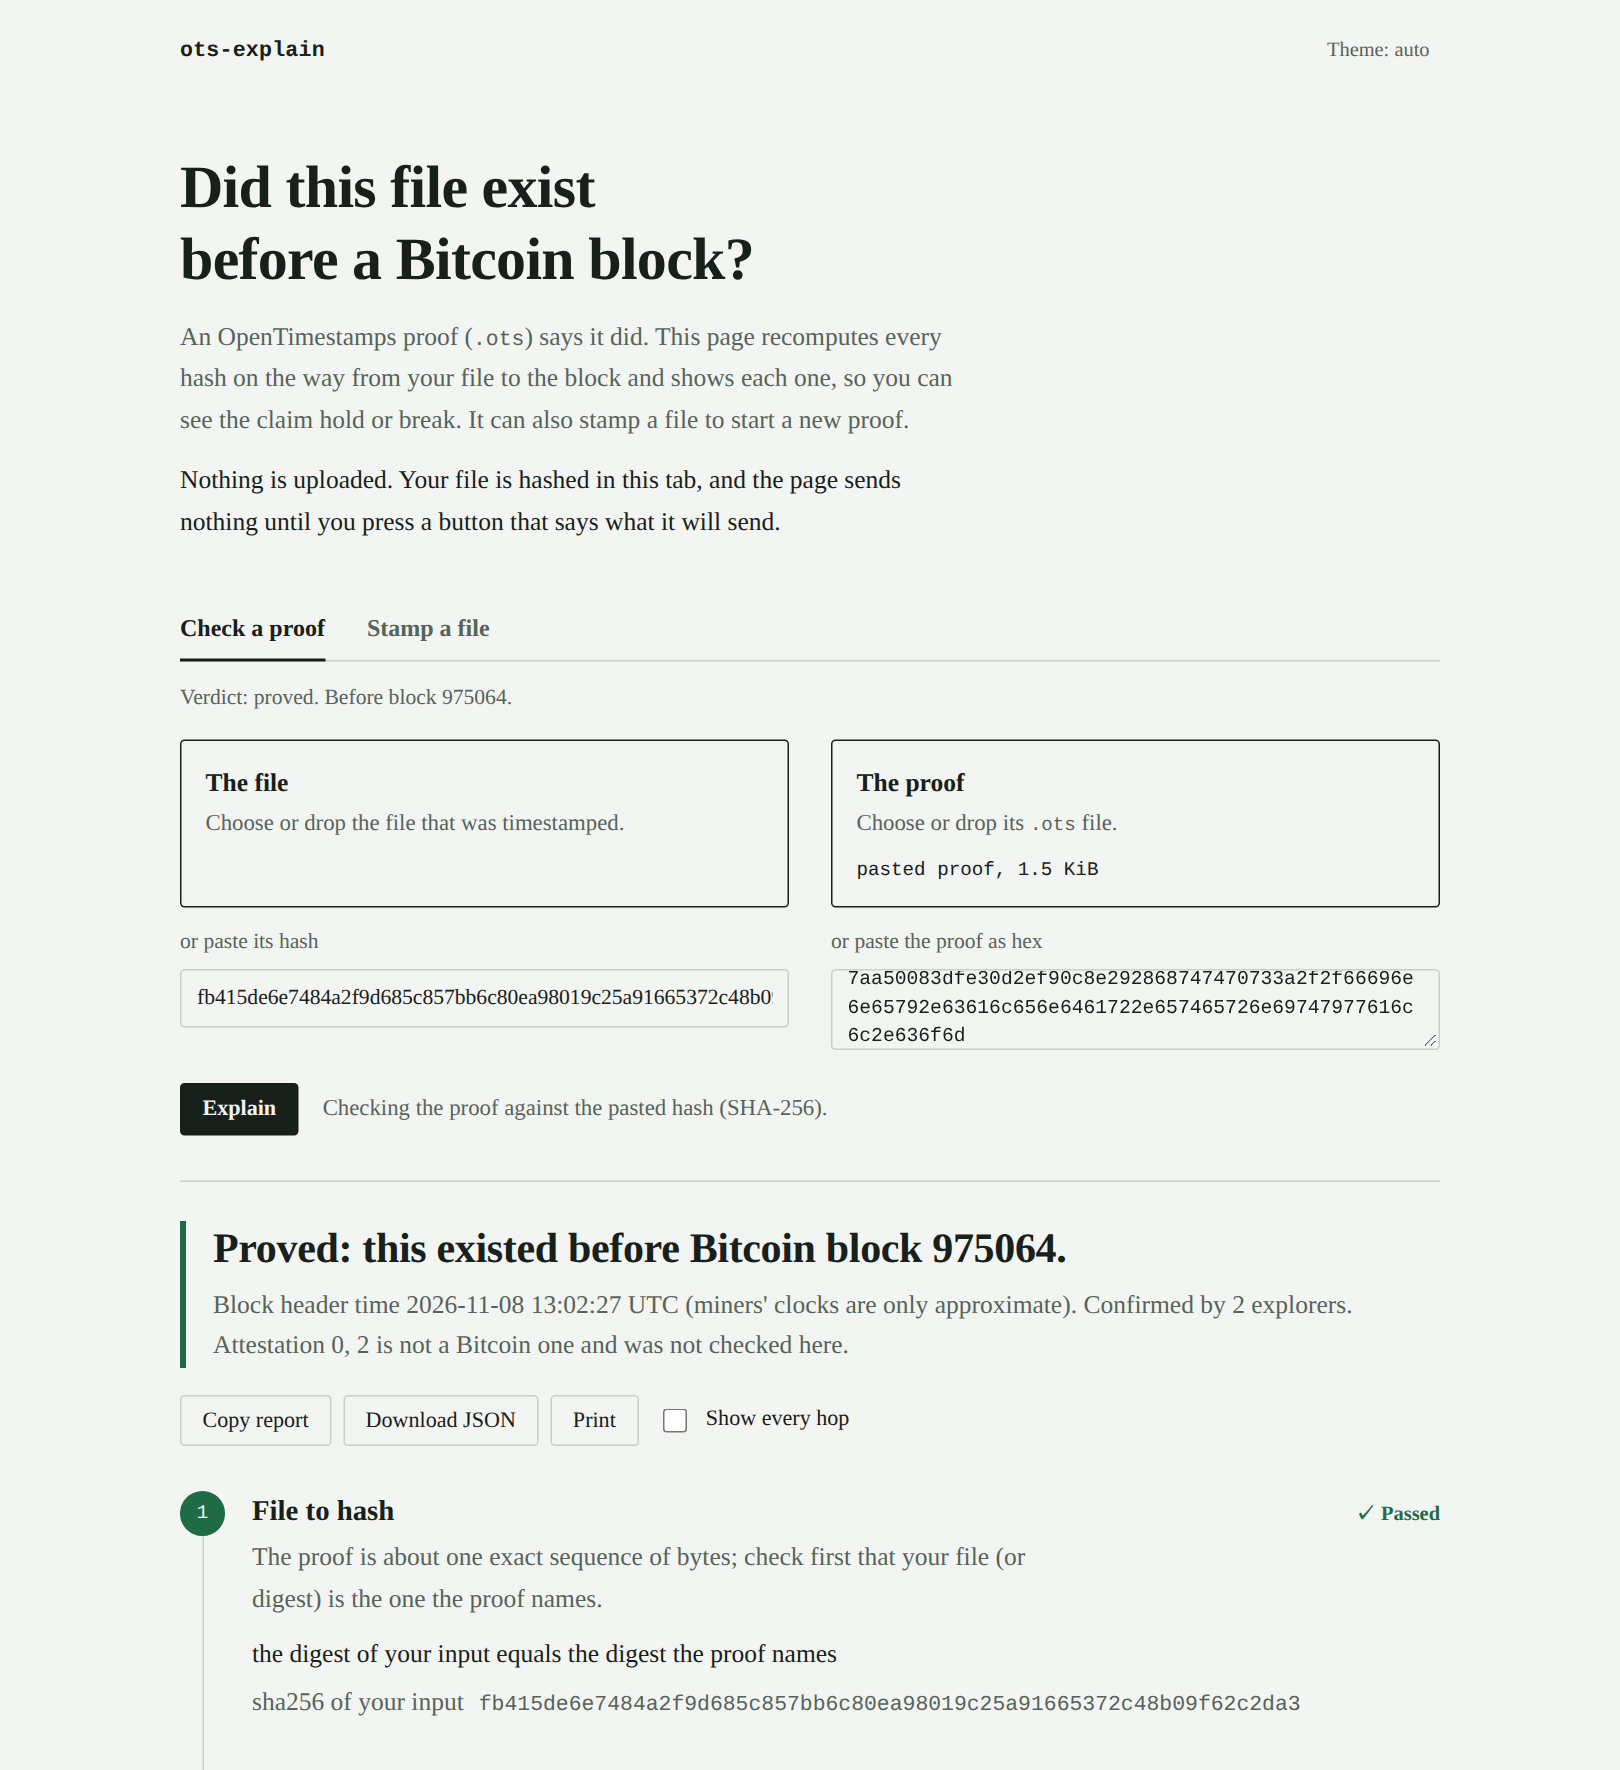
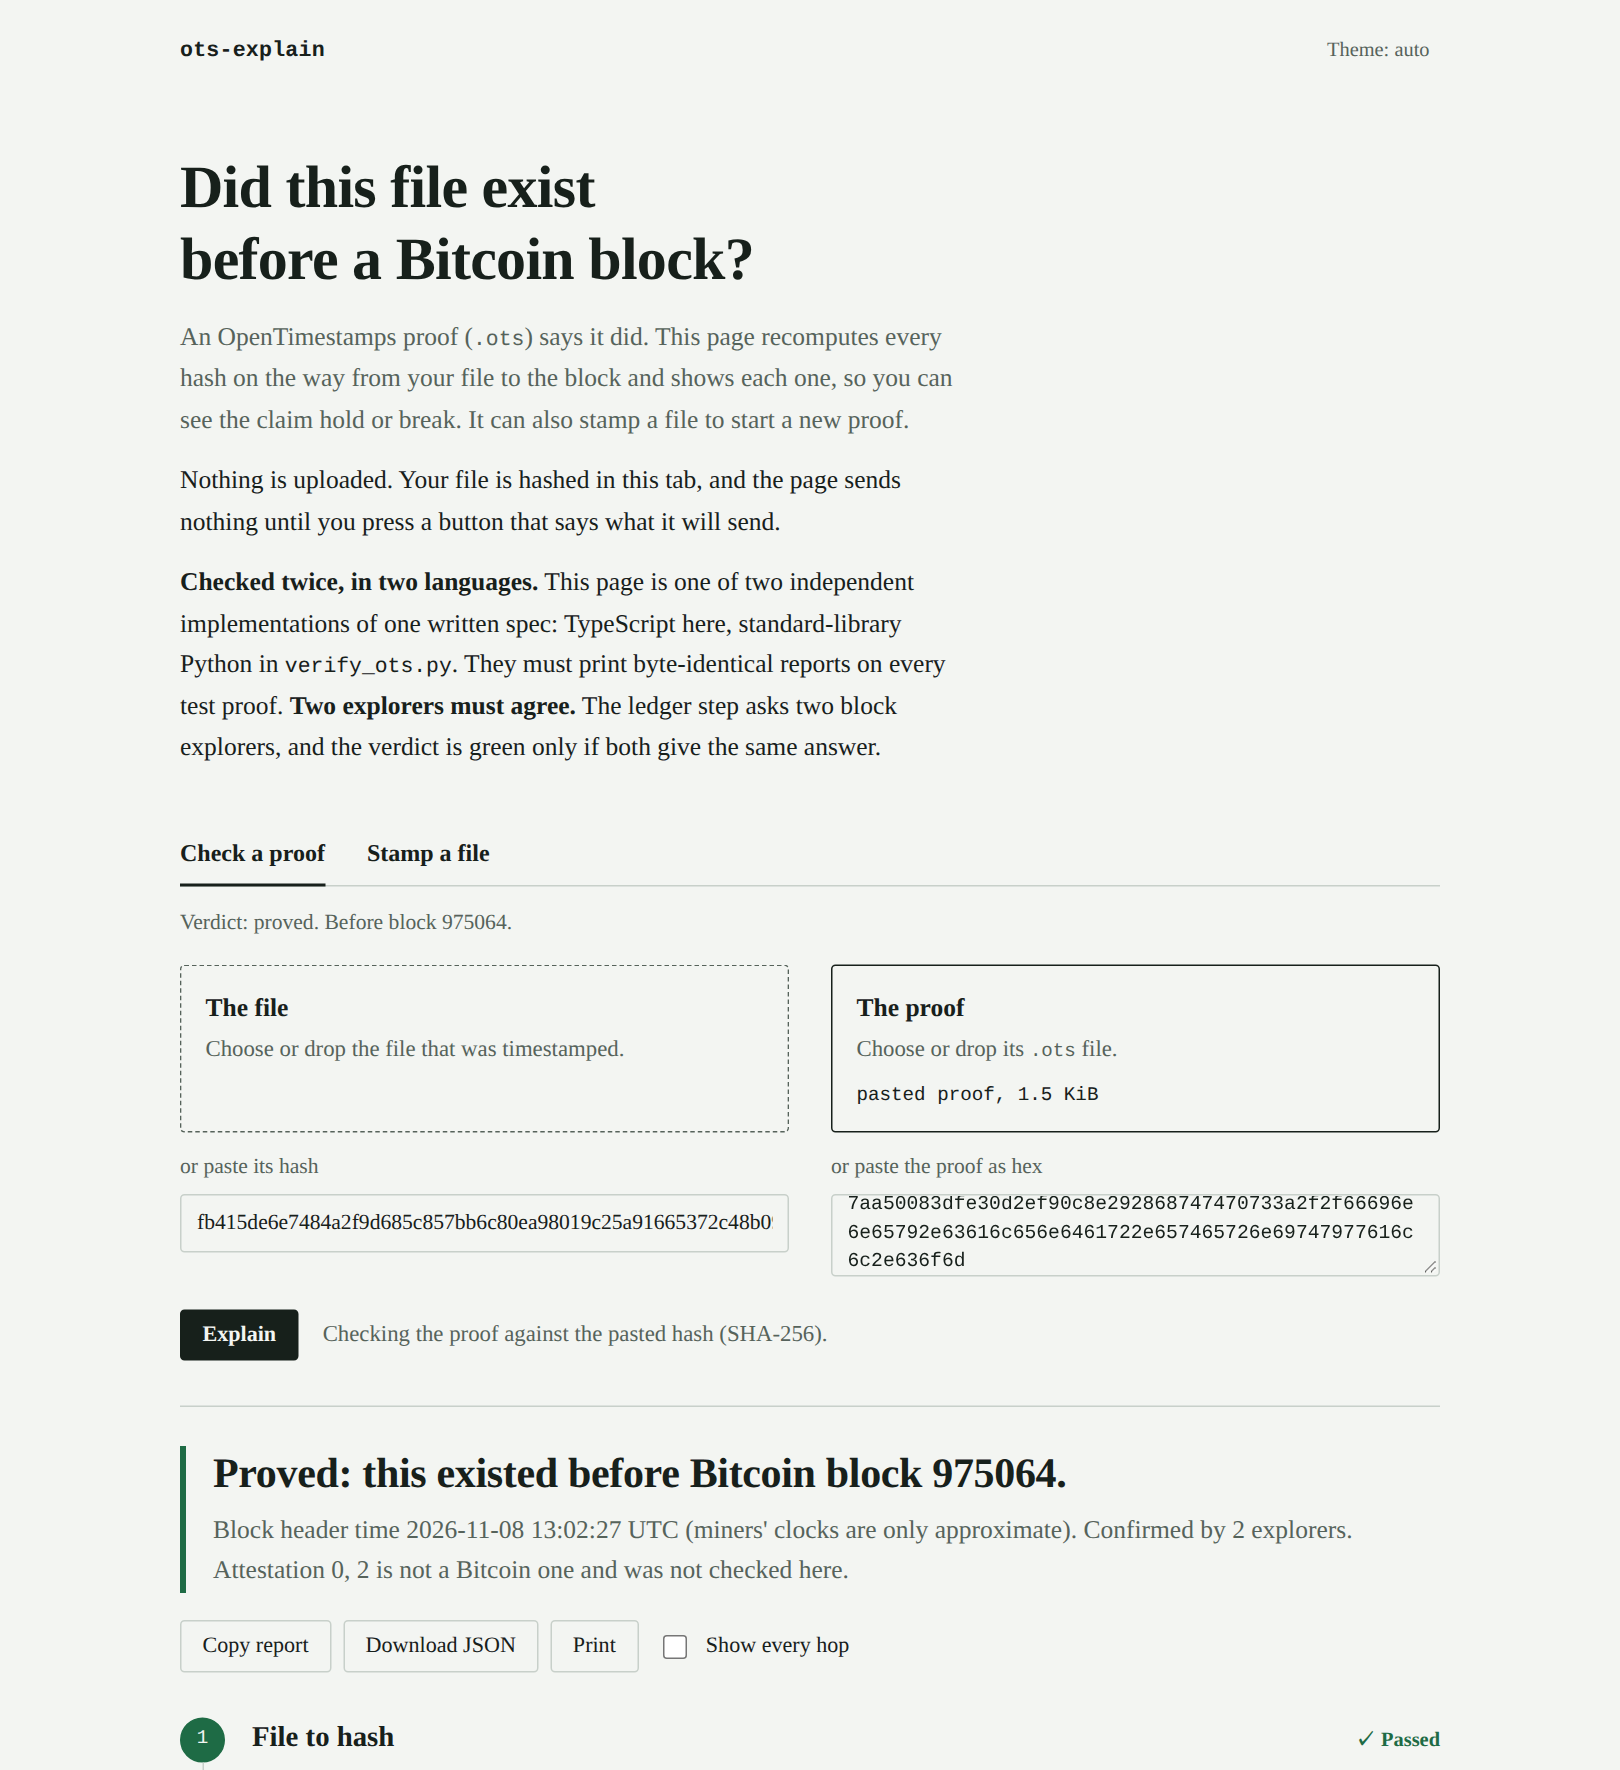
Page: say what is original (two implementations, two explorers); retake hero
Header text under the privacy line, two smoke checks, dist rebuilt, hero
retaken, README size figure corrected (81 KB).

diff --git a/dist/index.html b/dist/index.html
@@ -182,6 +182,7 @@ footer p{max-width:72ch;margin:0}
     <h1>Did this file exist before a Bitcoin block?</h1>
     <p>An OpenTimestamps proof (<code>.ots</code>) says it did. This page recomputes every hash on the way from your file to the block and shows each one, so you can see the claim hold or break. It can also stamp a file to start a new proof.</p>
     <p class="privacy">Nothing is uploaded. Your file is hashed in this tab, and the page sends nothing until you press a button that says what it will send.</p>
+    <p class="privacy" id="why-trust"><strong>Checked twice, in two languages.</strong> This page is one of two independent implementations of one written spec: TypeScript here, standard-library Python in <code>verify_ots.py</code>. They must print byte-identical reports on every test proof. <strong>Two explorers must agree.</strong> The ledger step asks two block explorers, and the verdict is green only if both give the same answer.</p>
   </section>
 
   <div class="tabs" role="tablist" aria-label="What do you want to do?">

diff --git a/web/index.html b/web/index.html
@@ -22,6 +22,7 @@
     <h1>Did this file exist before a Bitcoin block?</h1>
     <p>An OpenTimestamps proof (<code>.ots</code>) says it did. This page recomputes every hash on the way from your file to the block and shows each one, so you can see the claim hold or break. It can also stamp a file to start a new proof.</p>
     <p class="privacy">Nothing is uploaded. Your file is hashed in this tab, and the page sends nothing until you press a button that says what it will send.</p>
+    <p class="privacy" id="why-trust"><strong>Checked twice, in two languages.</strong> This page is one of two independent implementations of one written spec: TypeScript here, standard-library Python in <code>verify_ots.py</code>. They must print byte-identical reports on every test proof. <strong>Two explorers must agree.</strong> The ledger step asks two block explorers, and the verdict is green only if both give the same answer.</p>
   </section>
 
   <div class="tabs" role="tablist" aria-label="What do you want to do?">

diff --git a/CHANGELOG.md b/CHANGELOG.md
@@ -16,6 +16,7 @@ Format: [Keep a Changelog](https://keepachangelog.com/en/1.1.0/). Versions: [Sem
 - Page, "Check a proof": pasting a file's hash did nothing visible and there was no button to start. There is now an "Explain" button (checking also runs on paste), a box for the proof as hex, and a line under the inputs that says what is missing or why a paste cannot be used (not hex, odd length, no .ots header, a hash where a proof belongs or the reverse). A bare hash is named by its length (64: SHA-256; 40: SHA-1 or RIPEMD-160) and offers "Stamp this hash", which opens Stamp with it filled in. Browser smoke test: 12 new checks.
 
 ### Changed
+- Page: the header now says what is original about the tool (one of two independent implementations of one spec, TypeScript and Python, byte-identical on every test proof; two explorers must agree for a green verdict). Browser smoke test: 2 checks (77 in all). Hero picture retaken.
 - README, `docs/BACKLOG.md`, `docs/GOING-ONLINE.md`: the claims that real calendars, real explorers and Podman were never used are replaced by what the 2026-11-08 run showed, including that browsers can read a calendar's 200 answer but not its "not confirmed yet" 404 (no CORS header).
 - Page redesign: paper and ink with rules instead of cards, the system serif for prose and the system monospace for hashes (still no web fonts), one accent kept for Bitcoin. The five steps sit on one spine, and step 3 now shows the chain at a glance: your digest, the digest each phase ends on (calendar's tree, Bitcoin transaction, block's merkle path) and the block it lands in. Light, dark, print and phone width.
 

diff --git a/README.md b/README.md
@@ -1,6 +1,6 @@
 # ots-explain
 
-![The page proving a real timestamp: "Proved: this existed before Bitcoin block 975064", then the five steps](docs/hero.png)
+![The page proving a real timestamp ("Proved: this existed before Bitcoin block 975064"), under its statement that two independent implementations in two languages and two agreeing explorers stand behind the answer](docs/hero.png)
 
 *A real stamp from 2026-11-08, checked in the page against two public explorers (`./podman.sh hero` retakes this picture).*
 
@@ -8,7 +8,7 @@ Check, understand and create [OpenTimestamps](https://opentimestamps.org/) proof
 see **every hop** from your file to a Bitcoin block, or stamp a file and upgrade it later, with the file never leaving
 your machine. Two **independent implementations of one written spec** must print byte-identical reports:
 
-* `dist/index.html`: one static page (73 KB, no dependencies, works from `file://`, nothing uploaded).
+* `dist/index.html`: one static page (81 KB, no dependencies, works from `file://`, nothing uploaded).
 * `python/verify_ots.py`: one stdlib-only Python script (≥ 3.9) with the same five steps.
 
 The page does both halves: **check** a proof and **stamp** a file (hash it in the tab, ask the public calendars,
